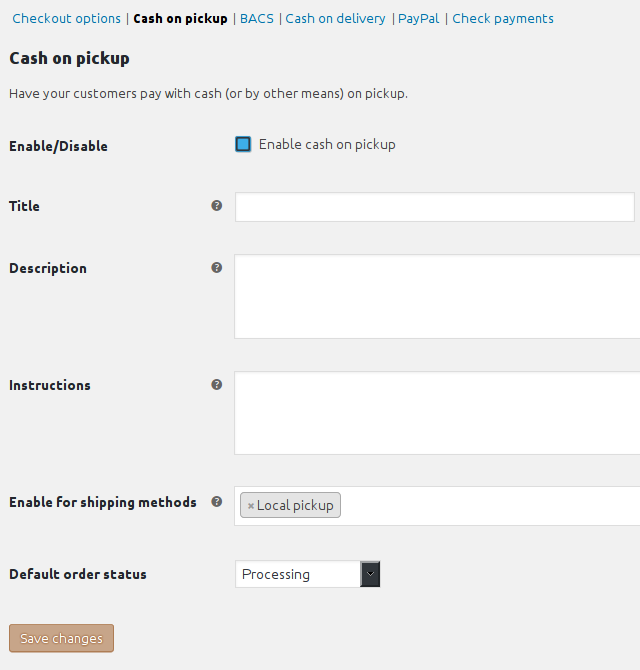
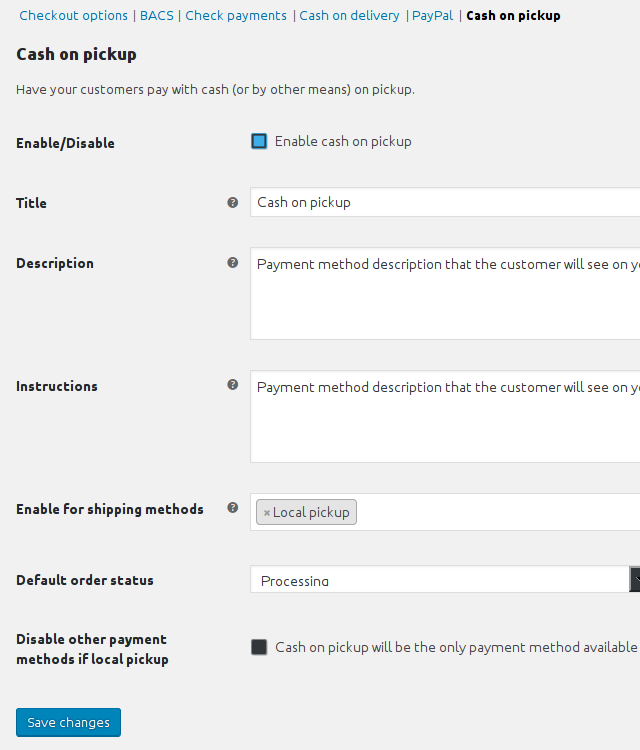
Update description in readme.txt, update screenshot, version bump

diff --git a/wc-cash-on-pickup.php b/wc-cash-on-pickup.php
@@ -3,7 +3,7 @@
 Plugin Name:       WooCommerce Cash On Pickup
 Plugin URI:        https://wordpress.org/plugins/wc-cash-on-pickup/
 Description:       A WooCommerce Extension that adds the payment gateway "Cash On Pickup"
-Version:           1.3.1
+Version:           1.4
 Author:            Marian Kadanka
 Author URI:        https://github.com/marian-kadanka
 Text Domain:       wc_cop
